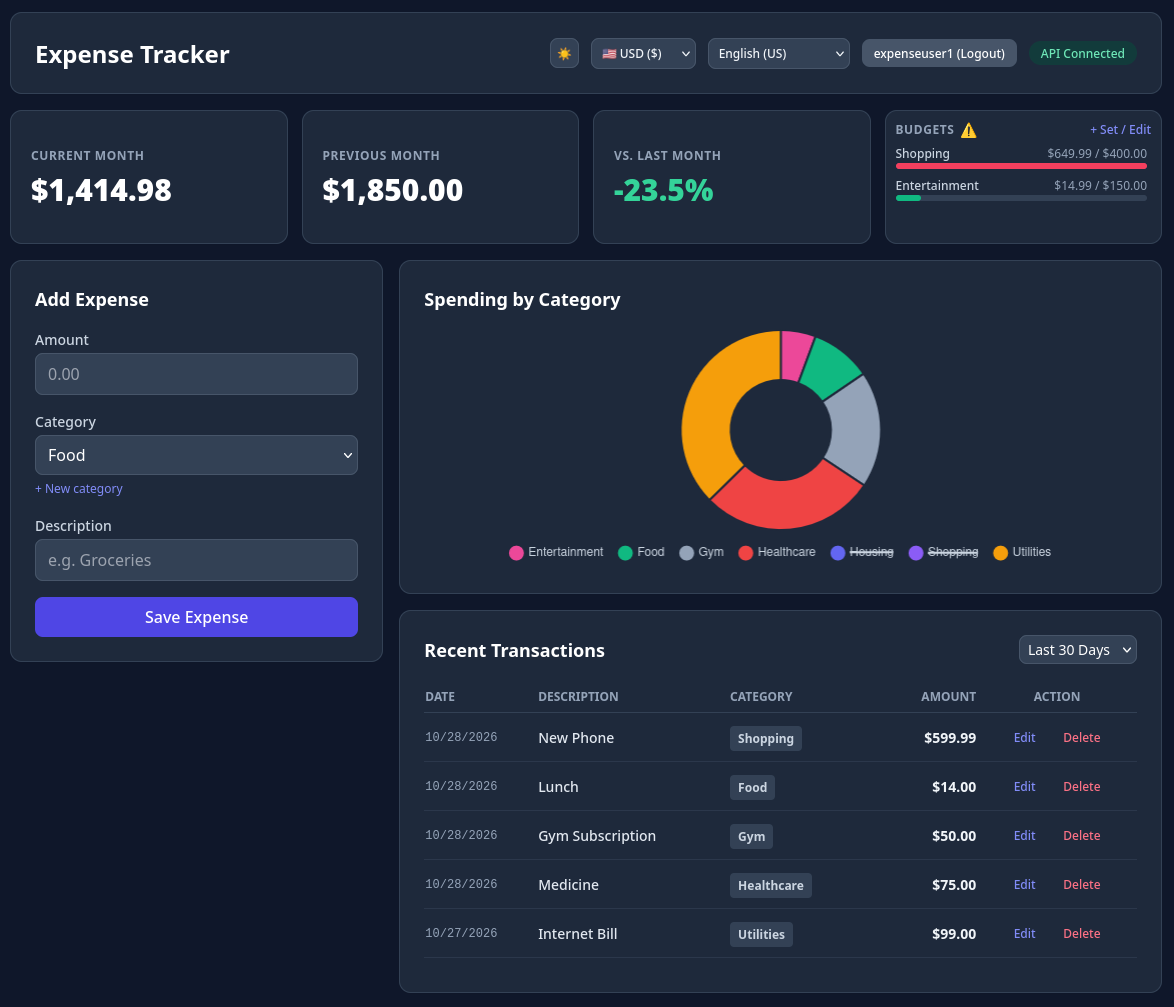
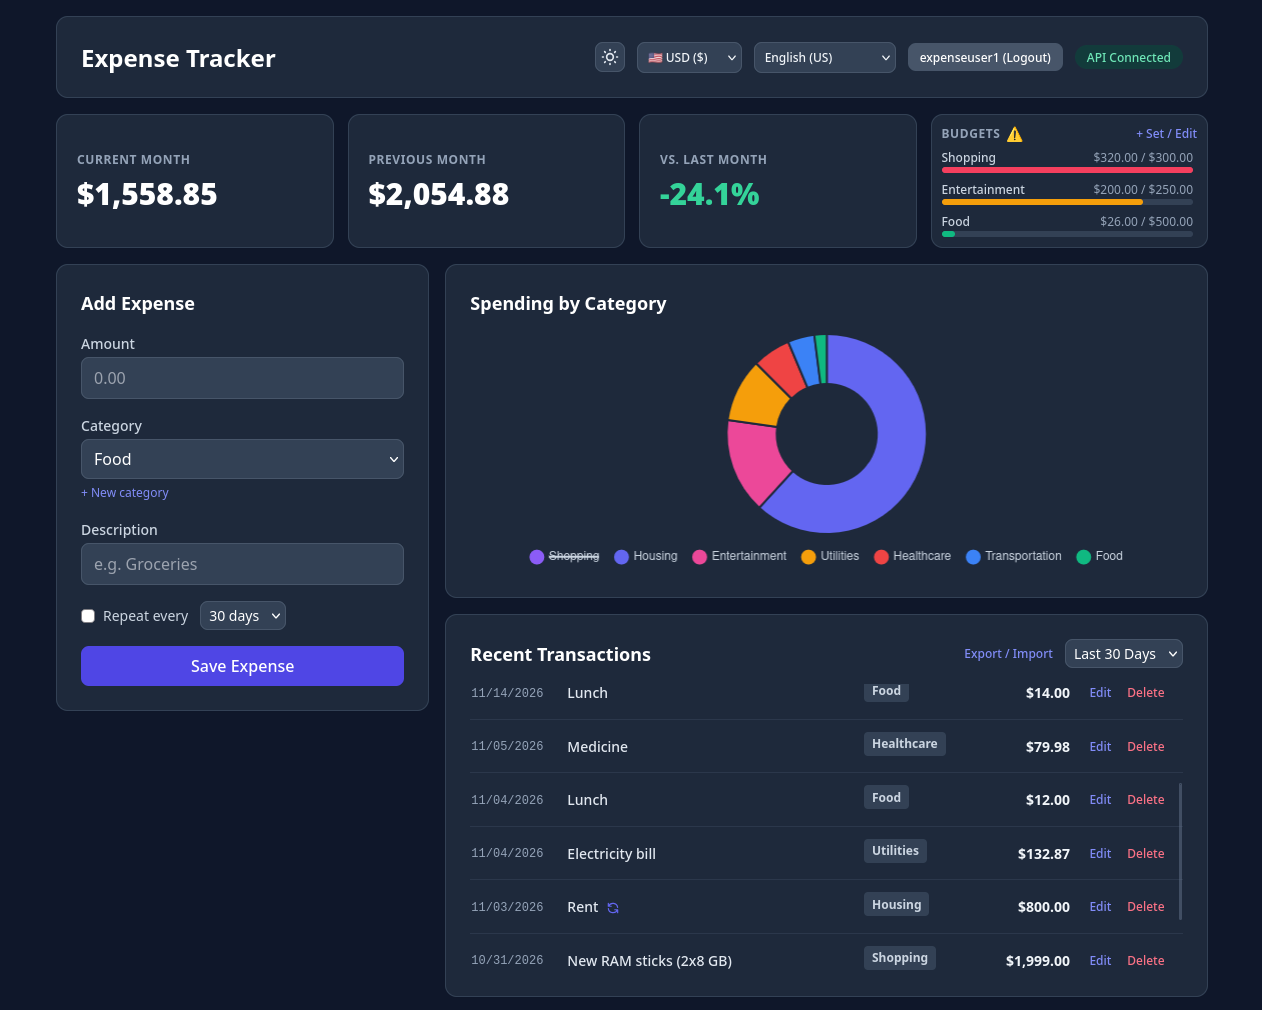
docs: update README and NOTES with export/import and toast notifications

diff --git a/NOTES.md b/NOTES.md
@@ -6,12 +6,16 @@ This expense tracker was built primarily with Java. It uses Spring Boot and JPA 
 ## Month 1 Recap
 * **Initial Concept:** This project originally started as just a simple CLI application. My purpose was to learn and demonstrate back-end logic, as well as some programming concepts like loose coupling, separation of responsibilities, etc.
 * **Overhaul:** After adding extra functionality and migrating a lot of the verbose logic to Spring Boot, I started seeing this application as more than just an exercise in back-end programming. That's when I decided to simplify the user experience by containerizing the whole thing in Docker and even adding a Web UI.
-* **Current State:** The app now handles CRUD operations through a visual interface. All the information is available at a glance, including an expense table and a category chart (using MariaDB, Chart.js, and Tailwind CSS). It features optional user accounts with JWT, custom category, monthly budgets with progress tracking, pagination, recurring expenses, dark mode, EN/PT-BR localization, and USD/BRL currency switching. Data flows from the front-end UI, through REST endpoints, down to the repository layer. 
+* **Current State:** The app now handles CRUD operations through a visual interface. All the information is available at a glance, including an expense table and a category chart (using MariaDB, Chart.js, and Tailwind CSS). It features optional user accounts with JWT, custom category, monthly budgets with progress tracking, pagination, recurring expenses, exporting/importing, dark mode, EN/PT-BR localization, and USD/BRL currency switching. Data flows from the front-end UI, through REST endpoints, down to the repository layer. 
 * **AI Usage Note:** Built with AI assistance for code implementation and boilerplate generation. But the architecture, data modeling, feature scope and debugging are directed manually.
 
 ---
 
 ## Dev Log
+
+### [November 12–13 2026] - Export / Import and Toast Notifications
+* **What changed:** Added the ability to export and import expenses in CSV format. Also added a new toast notification system that can be reused to display alerts such as successful operations, errors, information, etc.
+* **Why:** Being able to export and import expenses is good for portability and backups. All information is preserved, so you don't lose any data (nonexistent custom categories fall back to "Other"). Toast notifications replace the old browser alerts for a cleaner, more modern feedback experience.
 
 ### [November 1–7 2026] - Recurring Expenses
 * **What changed:** Added full support for recurring expenses (weekly / bi-weekly / monthly). New `RecurringExpense` entity, automatic generation via `@Scheduled` job + startup, optional "stop series" on delete, and UI controls (checkbox + frequency selector) on both Add and Edit forms. Also includes a small recurring icon in the transaction table.

diff --git a/README.md b/README.md
@@ -27,6 +27,7 @@ A full-stack personal expense tracking application with real-time analytics. Bui
 - **Recurring Expenses:** Mark an expense as recurring (every 30, 14 or 7 days). Future occurrences are generated automatically. A small icon indicates recurring items in the transaction list.
 - **Optional User Accounts:** Register / login with JWT authentication. Expenses are isolated per user while guest mode remains fully functional.
 - **Monthly Budgets:** Set per-category spending limits, track progress with visual bars, and get warned when a limit is reached (requires login).
+- **CSV Export / Import:** Download all expenses as a CSV file or import expenses from a CSV. Custom categories that don’t belong to the current user fall back to "Other".
 - **Dockerized Environment:** Multi-stage Docker build packaging both Spring Boot backend and MariaDB database via Docker Compose.
 - **Secure API:** Spring Security + JJWT protect authenticated endpoints while keeping public access for guests.
 - **API Documentation:** Interactive Swagger UI generated via SpringDoc OpenAPI.
@@ -51,6 +52,8 @@ A full-stack personal expense tracking application with real-time analytics. Bui
 | `DELETE` | `/api/expenses/{id}`     | Delete an expense by ID |
 | `GET`    | `/api/expenses/category-totals` | Get spending aggregated by category |
 | `GET`    | `/api/expenses/monthly-report` | Get month-over-month report metrics |
+| `GET`    | `/api/expenses/export`   | Download current user's expenses to a CSV file
+| `POST`   | `/api/expenses/import`   | Import expense list from CSV
 | `GET`    | `/api/categories`        | List system + user categories |
 | `POST`   | `/api/categories`        | Create a custom category (auth required) |
 | `GET`    | `/api/budgets`           | List budgets for the current user |
